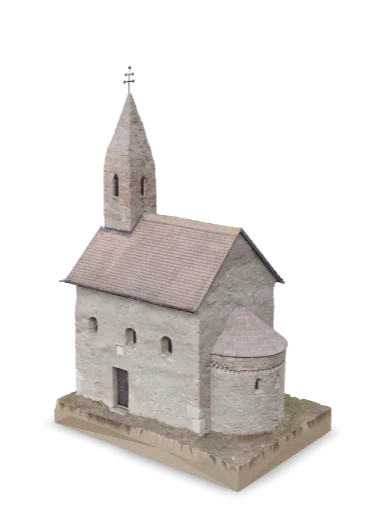
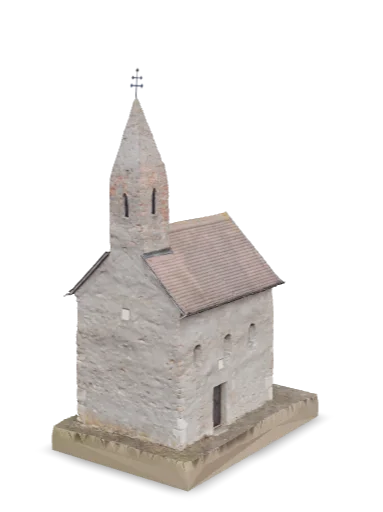
Fix progress bar

Changed region(s): [[0.1149, 0.125, 0.8903, 0.9688]]

diff --git a/index.html b/index.html
@@ -137,8 +137,11 @@
 							-->
 
 
-							<model-viewer loading="lazy" src="models/church_of_st._michael_the_archangel.glb" ar ar-modes="scene-viewer webxr quick-look" camera-controls poster="images/poster.webp" shadow-intensity="1" auto-rotate style="  width: 100%; height: 600px;">
-								<div class="progress-bar hide" slot="progress-bar">
+							<model-viewer loading="lazy" src="models/church_of_st._michael_the_archangel.glb" ar ar-modes="scene-viewer webxr quick-look" camera-controls poster="images/poster.webp" shadow-intensity="1.5" camera-orbit="-54.78deg 79.61deg 94.65m" field-of-view="30deg" auto-rotate style="  width: 100%; height: 600px;">
+								<button class="Hotspot" slot="hotspot-2" data-position="-5.007158976098335m 35.89958263008903m -0.5758341266991762m" data-normal="0.9928307315487589m -0.10766559138184639m 0.051915883164538414m" data-visibility-attribute="visible">
+									<div class="HotspotAnnotation">Church of St. Michael the Archangel</div>
+								</button>
+								<div class="progress-bar" slot="progress-bar">
 									<div class="update-bar"></div>
 								</div>
 								<button slot="ar-button" id="ar-button">
@@ -146,10 +149,9 @@
 								</button>
 							</model-viewer>
 
-							<script loading="lazy" src="assets/js/model-vierer-script.js"></script>
+							<script  src="assets/js/model-vierer-script.js"></script>
 							<!-- Loads <model-viewer> for browsers: -->
-							<script type="module" loading="lazy" src="https://ajax.googleapis.com/ajax/libs/model-viewer/3.2.0/model-viewer.min.js"></script>
-
+							<script type="module" loading="lazy" src="https://ajax.googleapis.com/ajax/libs/model-viewer/3.2.0/model-viewer.min.js"></script>						
 						</div>
 					</section>
 

diff --git a/assets/js/model-vierer-script.js b/assets/js/model-vierer-script.js
@@ -2,12 +2,16 @@
 const onProgress = (event) => {
   const progressBar = event.target.querySelector('.progress-bar');
   const updatingBar = event.target.querySelector('.update-bar');
-  updatingBar.style.width = `${event.detail.totalProgress * 100}%`;
-  if (event.detail.totalProgress === 1) {
-    progressBar.classList.add('hide');
-    event.target.removeEventListener('progress', onProgress);
+
+  if (event.detail.totalProgress === 0) {
+    progressBar.style.display = 'block';
+    updatingBar.style.width = '0%';
   } else {
-    progressBar.classList.remove('hide');
+    updatingBar.style.width = `${event.detail.totalProgress * 100}%`;
+
+    if (event.detail.totalProgress === 1) {
+      progressBar.style.display = 'none';
+    }
   }
 };
 document.querySelector('model-viewer').addEventListener('progress', onProgress);

diff --git a/assets/css/model-viewer-styles.css b/assets/css/model-viewer-styles.css
@@ -41,7 +41,7 @@ model-viewer {
 }
 
 .update-bar {
-  background-color: rgba(255, 255, 255, 0.9);
+  background-color: #49fcd4;
   width: 0%;
   height: 100%;
   border-radius: 25px;
@@ -60,10 +60,10 @@ model-viewer {
   transform: translateX(-50%);
   white-space: nowrap;
   bottom: 16px;
-  padding: 0px 16px 0px 40px;
+  padding: 0px 24px 0px 24px;
   font-family: Roboto Regular, Helvetica Neue, sans-serif;
   font-size: 14px;
-  color:#4285f4;
+  color:#49fcd4;
   height: 36px;
   line-height: 36px;
   border-radius: 18px;
@@ -71,7 +71,7 @@ model-viewer {
 }
 
 #ar-button:active {
-  background-color: #E8EAED;
+  background-color: #49fcd4;
 }
 
 #ar-button:focus {
@@ -79,7 +79,7 @@ model-viewer {
 }
 
 #ar-button:focus-visible {
-  outline: 1px solid #4285f4;
+  outline: 1px solid #49fcd4;
 }
 
 @keyframes circle {
